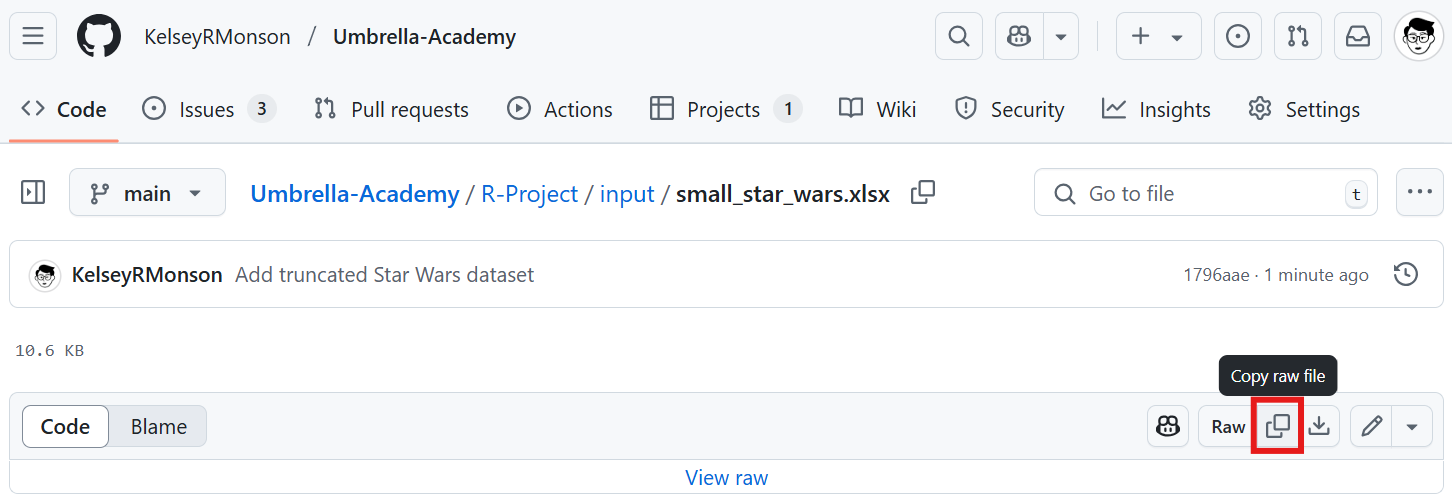
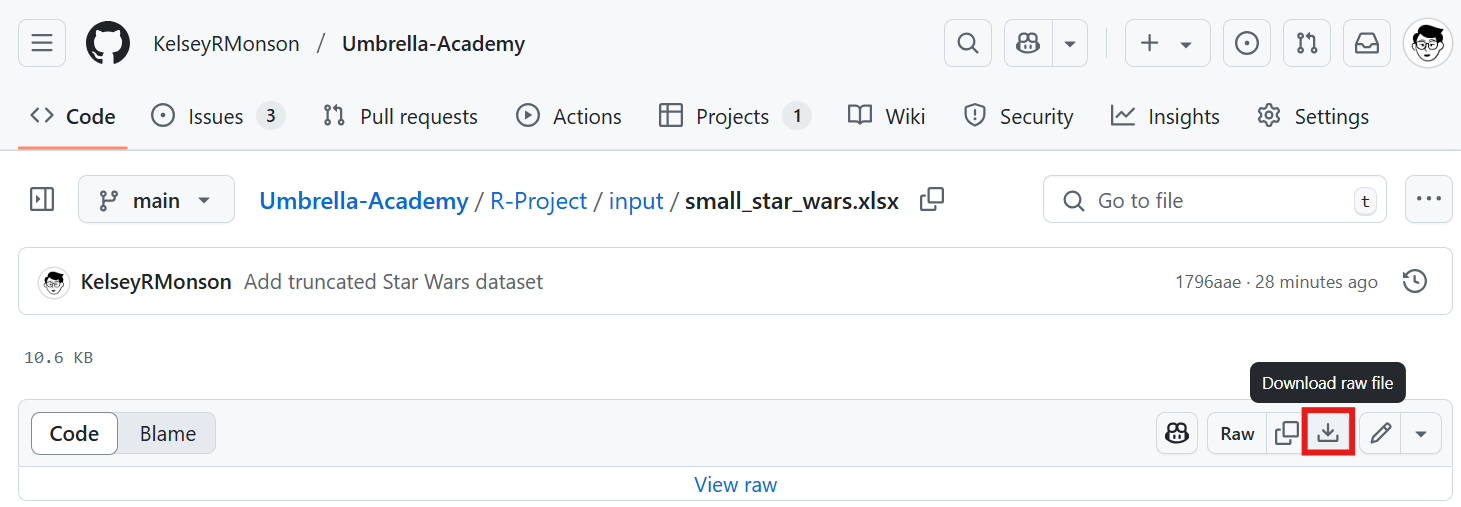
Fix data download image file

diff --git a/R-Project/R_project_code.html b/R-Project/R_project_code.html
@@ -619,22 +619,44 @@ A note on document types
 </section>
 </section>
 </section>
-<section id="exercise" class="level2 page-columns page-full" data-number="2">
+<section id="exercise" class="level2" data-number="2">
 <h2 data-number="2" class="anchored" data-anchor-id="exercise"><span class="header-section-number">2</span> Exercise</h2>
 <p>Some packages (and Base-R) include their own test data. This is useful when you want to see what a package is capable of, and is especially good for testing specific functions. If the package documentation shows you how to run functions using test data that you can download too, you can both recreate the example they are showing you and more easily apply it to your own data.</p>
 <p>We will use the <code>starwars</code> dataset from the <code>tidyverse</code> package as our example data today.</p>
-<section id="getting-started" class="level3 page-columns page-full" data-number="2.1">
+<section id="getting-started" class="level3" data-number="2.1">
 <h3 data-number="2.1" class="anchored" data-anchor-id="getting-started"><span class="header-section-number">2.1</span> Getting Started</h3>
 <p>I’ve created an <a href="Getting_Started_with_R_script.R">R Script</a> that includes the code necessary to generate the plots for this exercise.</p>
+<section id="install-and-load-packages-download-data" class="level4" data-number="2.1.1">
+<h4 data-number="2.1.1" class="anchored" data-anchor-id="install-and-load-packages-download-data"><span class="header-section-number">2.1.1</span> Install and Load Packages, Download Data</h4>
 <p>Go ahead and open that script to see the names of the packages we need to download and load today – and then do that!</p>
 <p>While we will use the <code>starwars</code> dataset built into the <code>tidyverse</code>, you will eventually need to know how to load in your own data to R, so I saved a small version of the dataset to teach you to do just that.</p>
 <p>Download the <a href="input/small_star_wars.xlsx">dataset</a> from the GitHub:</p>
-<div class="quarto-figure quarto-figure-center page-columns page-full">
-<figure class="figure page-columns page-full">
-<p><img src="assets/Download_Data.png" class="img-fluid figure-img"></p>
-<figcaption class="margin-caption">Navigate to the <em>input</em> folder, select the file, and select “Copy raw file.”</figcaption>
-</figure>
+<p><img src="assets/Download_Data.png" class="img-fluid" alt="Navigate to the input folder, select the file, and select “Copy raw file.”"> Then create a folder in your own project directory called <code>input</code> and save the file there.</p>
+<p>Reading in the data should now look like:</p>
+<div class="cell">
+<div class="sourceCode cell-code" id="cb36"><pre class="sourceCode r code-with-copy"><code class="sourceCode r"><span id="cb36-1"><a href="#cb36-1" aria-hidden="true" tabindex="-1"></a>small_star_wars <span class="ot">&lt;-</span> <span class="fu">read_excel</span>(<span class="st">"input/small_star_wars.xlsx"</span>, <span class="at">na=</span><span class="st">"NA"</span>)</span></code><button title="Copy to Clipboard" class="code-copy-button"><i class="bi"></i></button></pre></div>
 </div>
+</section>
+<section id="explore-the-data" class="level4" data-number="2.1.2">
+<h4 data-number="2.1.2" class="anchored" data-anchor-id="explore-the-data"><span class="header-section-number">2.1.2</span> Explore the Data</h4>
+<p>This dataset is more complicated than the vectors I created earlier – what does it look like if we run <code>str()</code> on this?</p>
+<div class="cell">
+<div class="sourceCode cell-code" id="cb37"><pre class="sourceCode r code-with-copy"><code class="sourceCode r"><span id="cb37-1"><a href="#cb37-1" aria-hidden="true" tabindex="-1"></a><span class="fu">str</span>(small_star_wars)</span></code><button title="Copy to Clipboard" class="code-copy-button"><i class="bi"></i></button></pre></div>
+<div class="cell-output cell-output-stdout">
+<pre><code>tibble [9 × 10] (S3: tbl_df/tbl/data.frame)
+ $ name      : chr [1:9] "Luke Skywalker" "C-3PO" "R2-D2" "Darth Vader" ...
+ $ height    : num [1:9] 172 167 96 202 150 182 188 228 180
+ $ mass      : num [1:9] 77 75 32 136 49 77 84 112 80
+ $ hair_color: chr [1:9] "blond" NA NA "none" ...
+ $ skin_color: chr [1:9] "fair" "gold" "white, blue" "white" ...
+ $ eye_color : chr [1:9] "blue" "yellow" "red" "yellow" ...
+ $ birth_year: num [1:9] 19 112 33 41.9 19 57 41.9 200 29
+ $ sex       : chr [1:9] "male" "none" "none" "male" ...
+ $ homeworld : chr [1:9] "Tatooine" "Tatooine" "Naboo" "Tatooine" ...
+ $ species   : chr [1:9] "Human" "Droid" "Droid" "Human" ...</code></pre>
+</div>
+</div>
+</section>
 </section>
 </section>
 
